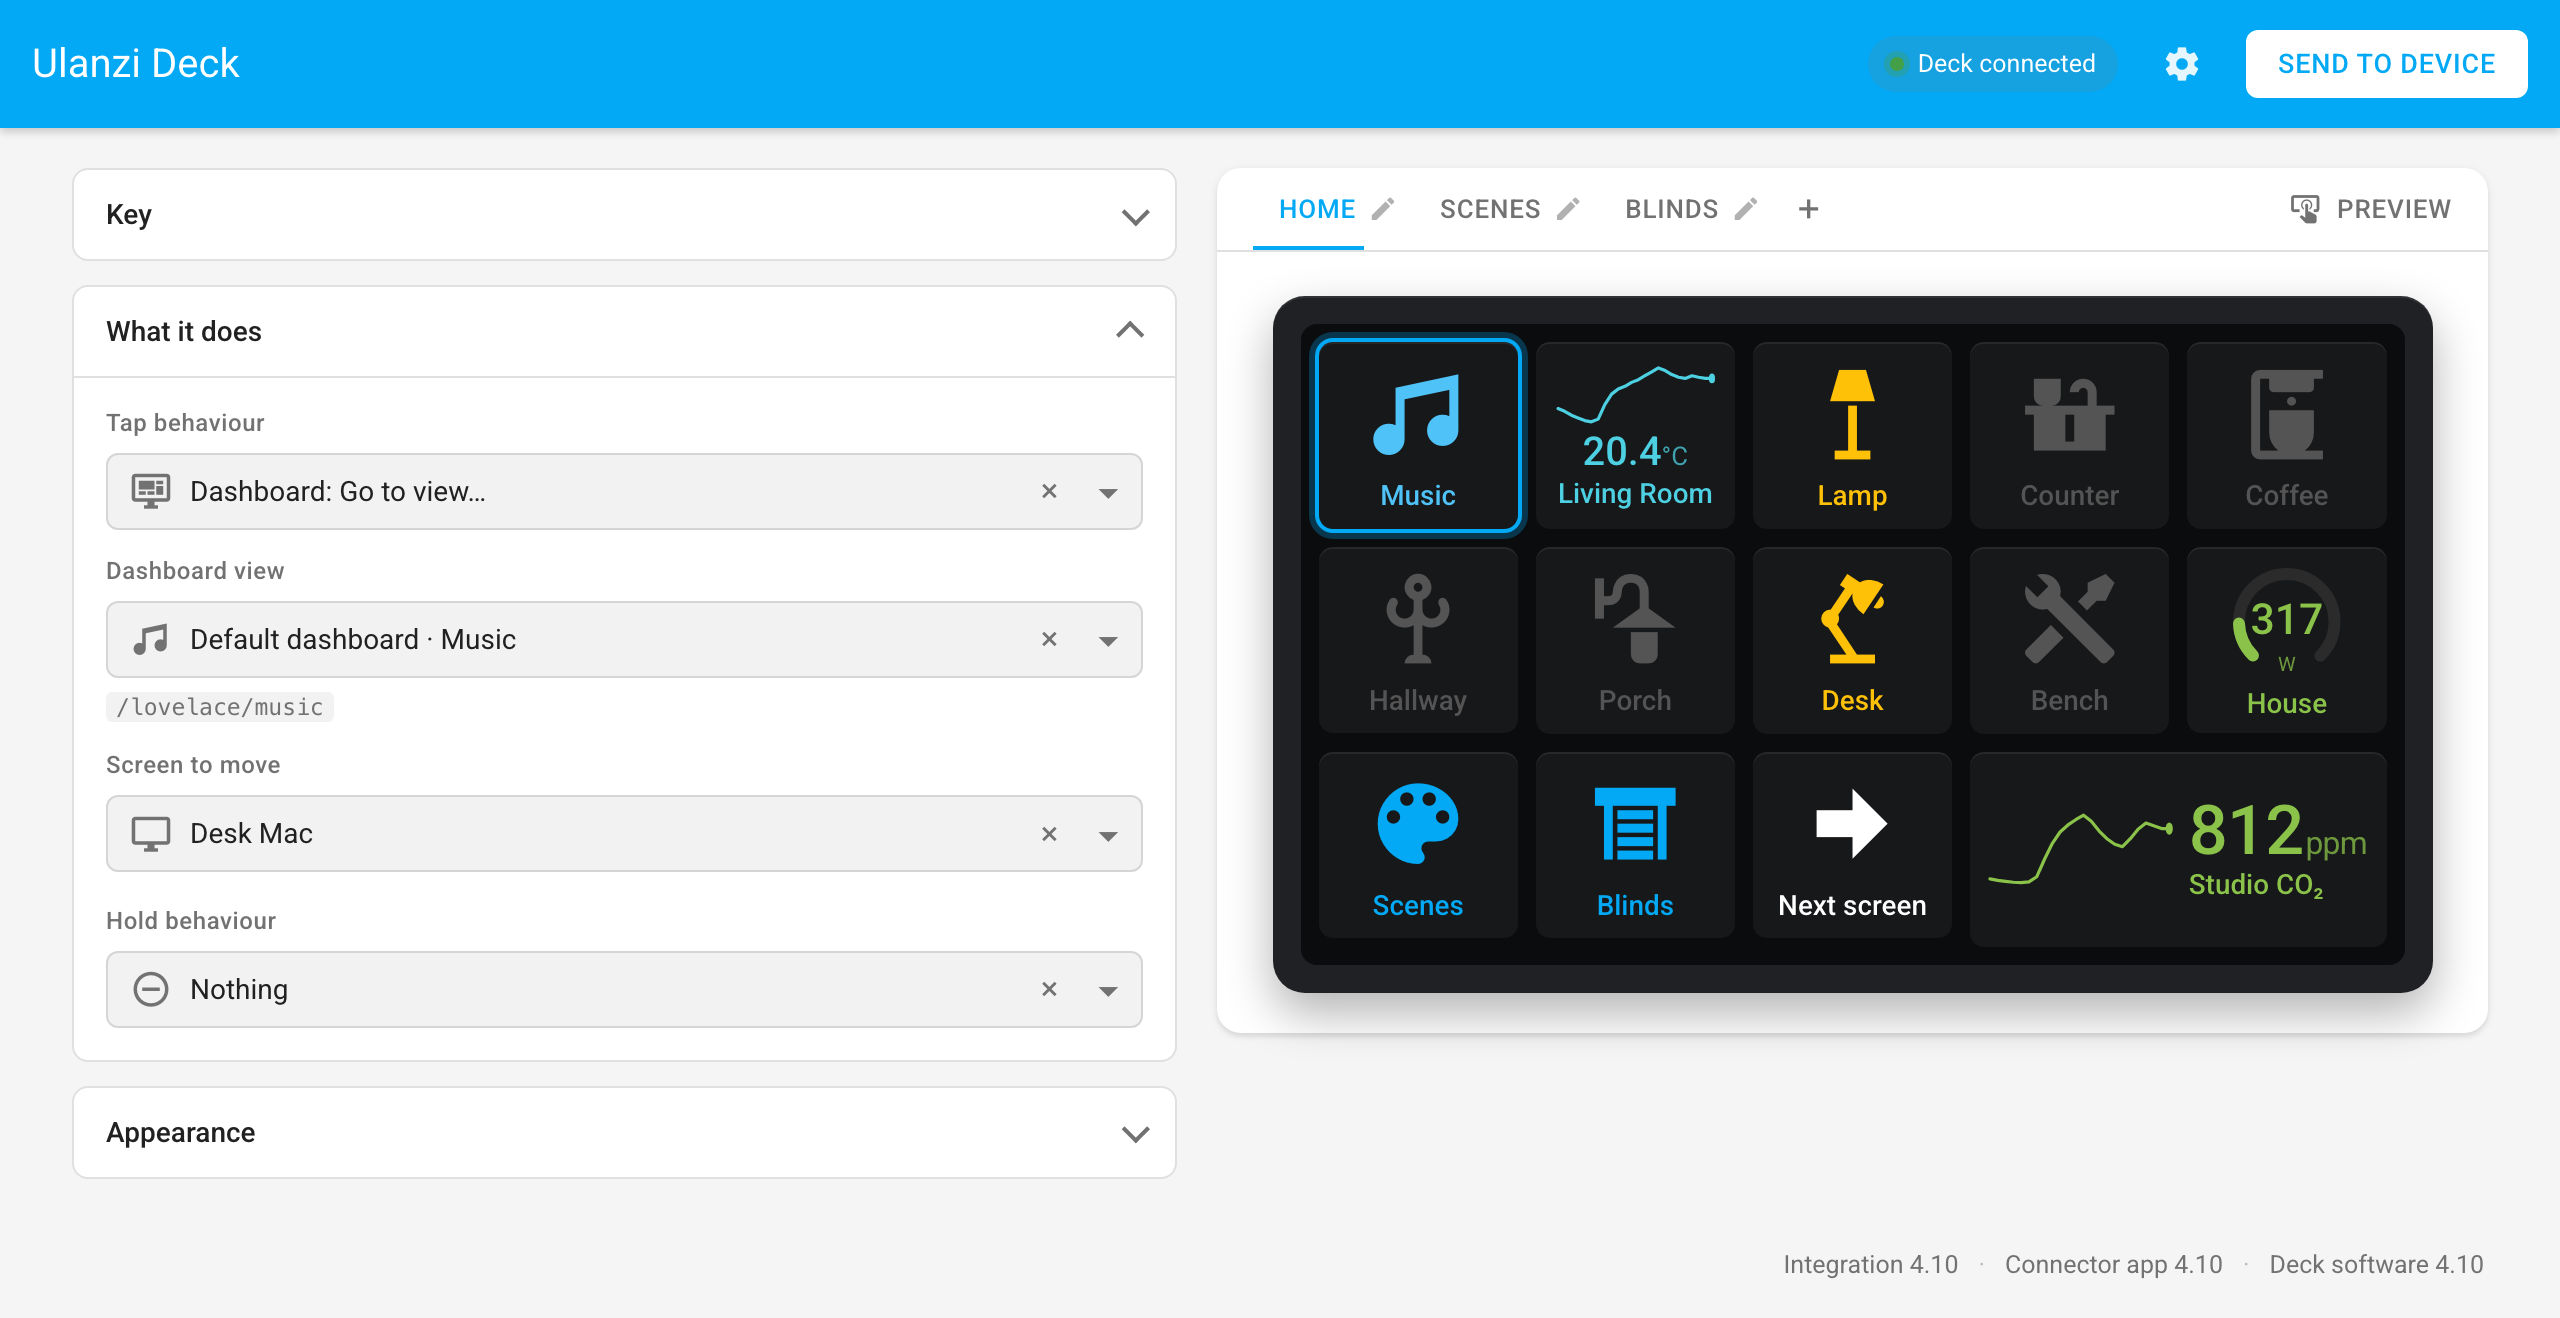
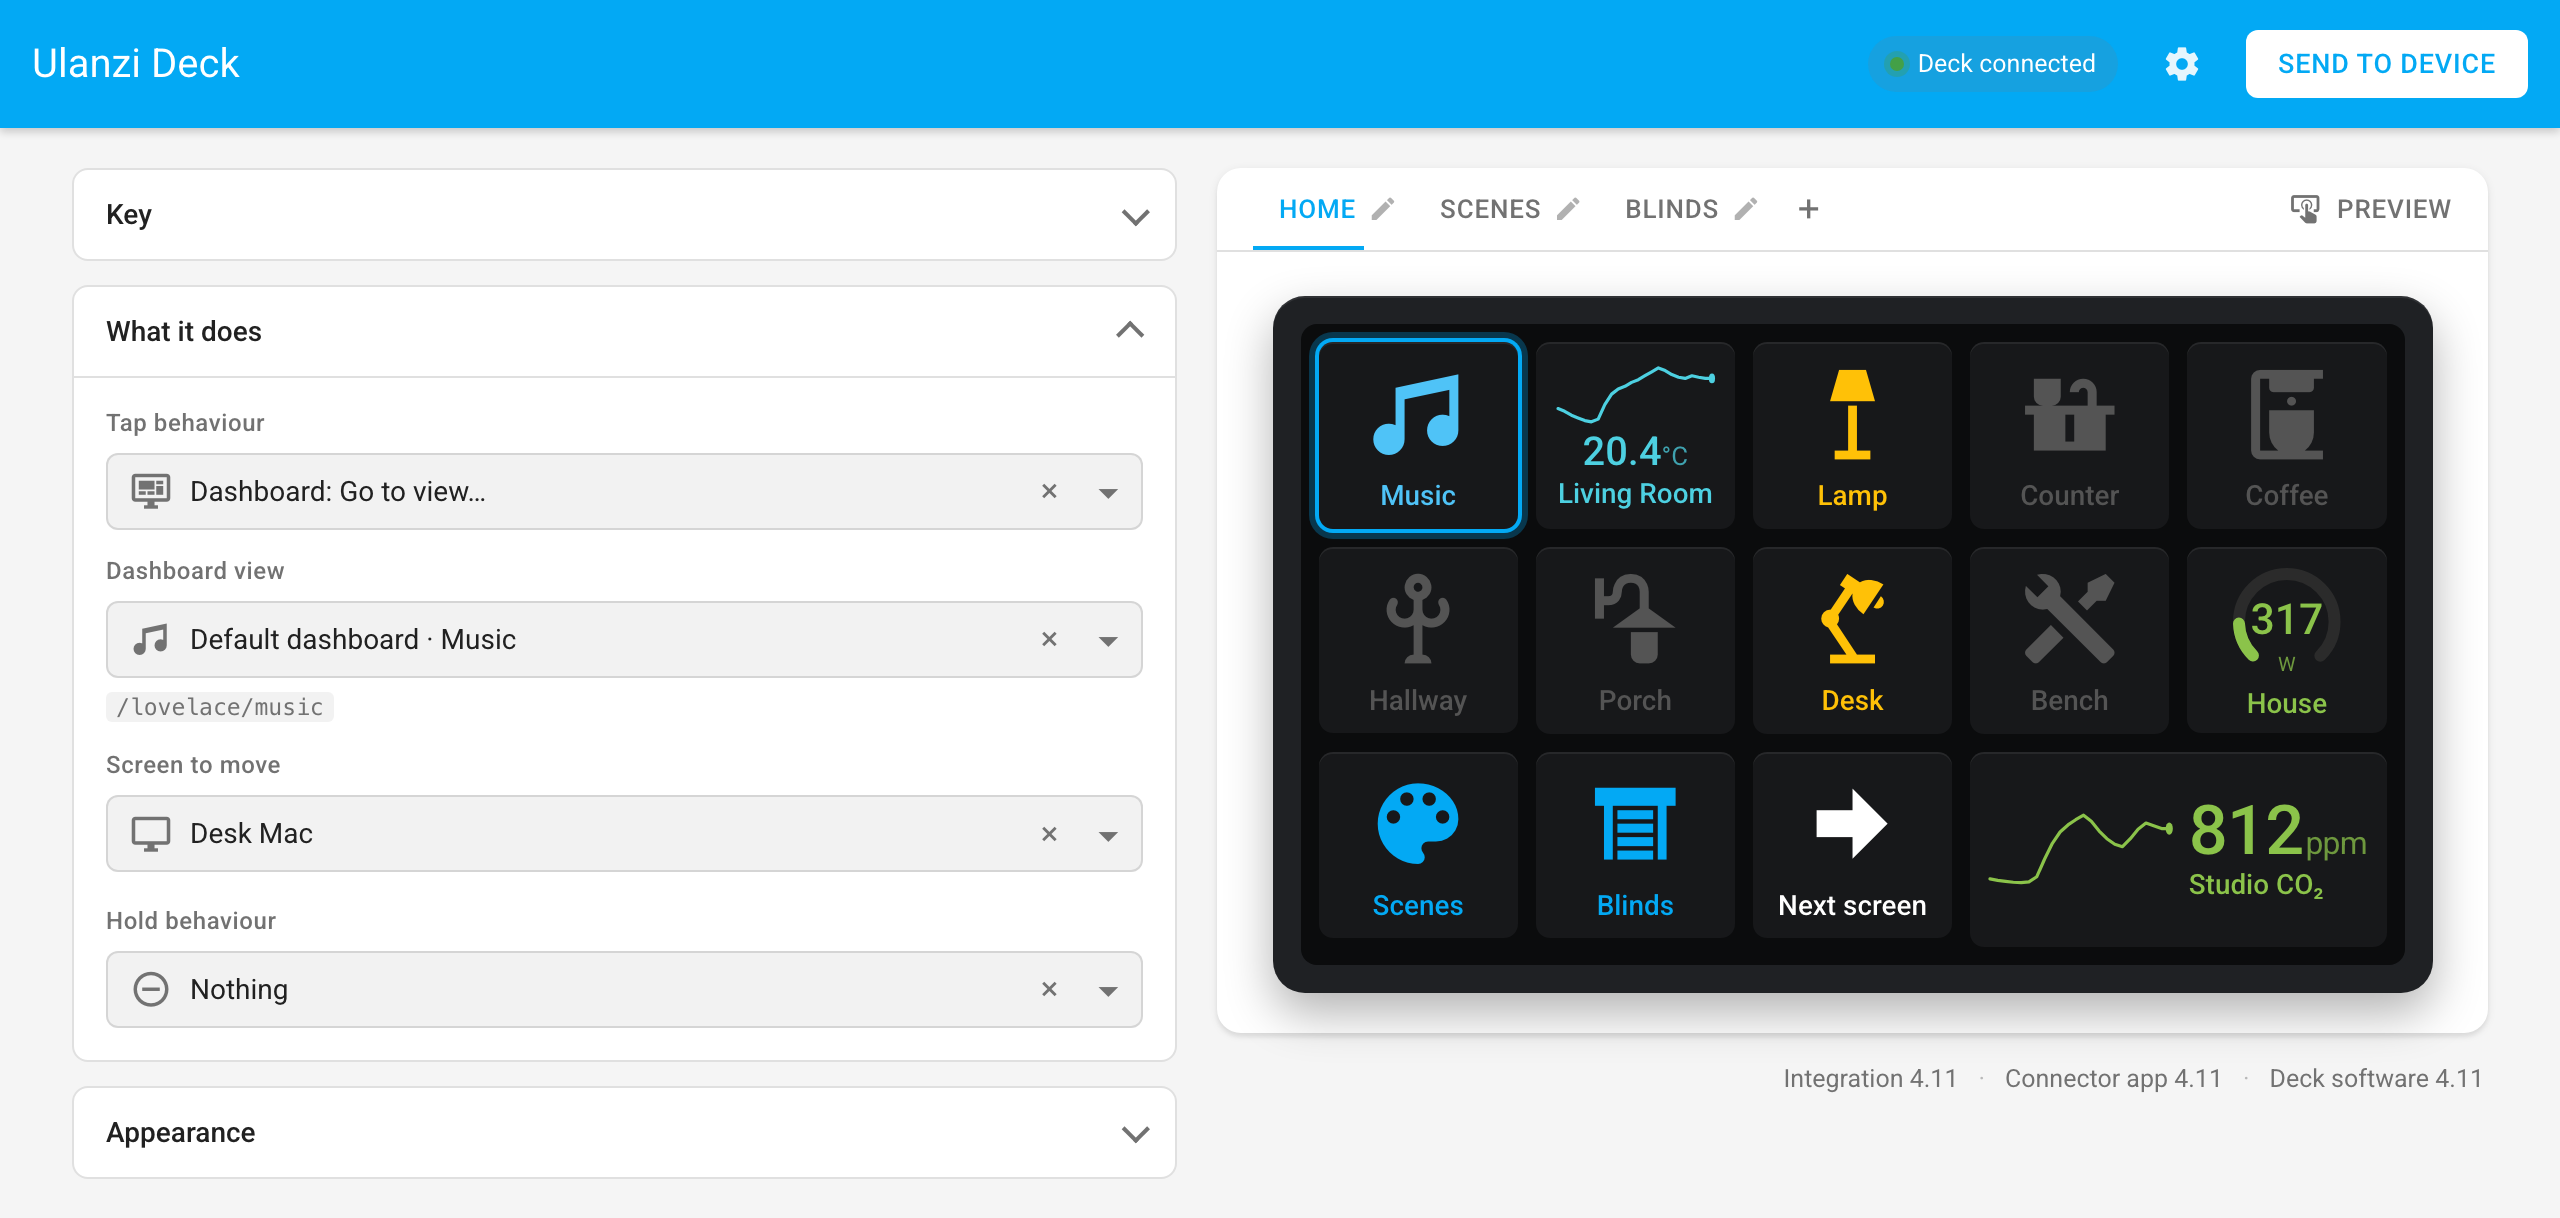
Keep the version line under the deck, not under the page
The three version numbers sat in a row that spanned both columns, so
they landed below whichever side was taller. Open a section on the left
and they slid down the page, away from the deck they describe, leaving a
band of empty grey between. It read as a mistake because it was one.

The deck, the update bar and the version line are now one column rather
than three rows of the page, so the numbers stay tucked under the deck
whatever the left-hand side is doing. Checked with the sections closed
and open — the line does not move — in the single column the panel
falls back to under 960px, and on the first-run screen, where the whole
right-hand column is empty and collapses to nothing.

The update bar moved with them, because it belongs with the numbers it
is about and would otherwise have ended up below a line that refers to
it. It is still the full width of that column.

The guide's figures are redrawn, since the panel in them changed.

diff --git a/custom_components/ulanzi_deck/frontend/panel.js b/custom_components/ulanzi_deck/frontend/panel.js
@@ -74,8 +74,13 @@ h1,h2{margin:0;font-weight:500;text-wrap:balance}
 /* One permanent line saying what every part is running. Grey means nothing to
    do; amber means that part is behind this release, and the bar above says how
    to fix it. Nothing to go looking for, and nothing to remember. */
-.verline{grid-column:1/-1;display:flex;justify-content:flex-end;flex-wrap:wrap;gap:4px 10px;
-  margin:2px 2px 0;font-size:12.5px;color:var(--fg2)}
+/* The deck, anything waiting to be updated, and the three version numbers are one
+   column, not three rows of the page. Spanning both columns put them below
+   whichever side was taller, so opening a section on the left shoved the version
+   line down the page away from the deck it describes. */
+.rightcol{display:flex;flex-direction:column;gap:14px;min-width:0}
+.verline{display:flex;justify-content:flex-end;flex-wrap:wrap;gap:4px 10px;
+  margin:0 2px;font-size:12.5px;color:var(--fg2)}
 .verline .vsep{opacity:.45}
 .verline .vpart{white-space:nowrap}
 .verline .vpart.old{color:var(--amber);font-weight:500}
@@ -84,7 +89,7 @@ h1,h2{margin:0;font-weight:500;text-wrap:balance}
   padding-block:20px 40px;max-width:1240px;margin:0 auto;
   display:grid;grid-template-columns:minmax(0,1fr) minmax(0,1.15fr);gap:20px;align-items:start}
 @media (max-width:960px){.wrap{grid-template-columns:minmax(0,1fr)}}
-.updbar{grid-column:1/-1;display:flex;align-items:center;gap:14px;margin-top:4px;padding:16px 18px;
+.updbar{display:flex;align-items:center;gap:14px;padding:16px 18px;
   border-radius:12px;background:var(--card);box-shadow:0 2px 2px rgba(0,0,0,.06),0 1px 5px rgba(0,0,0,.08);
   border-left:4px solid var(--amber)}
 .updbar .mi.dl{font-size:22px;color:var(--amber);flex:0 0 auto}
@@ -575,6 +580,7 @@ const MARKUP=`
     </div>
   </div>
 
+  <div class="rightcol">
   <div class="card" id="deckCard">
     <div class="tabrow">
       <div class="tabs" role="tablist" id="tabs"></div>
@@ -608,6 +614,7 @@ const MARKUP=`
     <span class="vpart" id="vp-int"></span><span class="vsep">·</span>
     <span class="vpart" id="vp-app"></span><span class="vsep">·</span>
     <span class="vpart" id="vp-deck"></span>
+  </div>
   </div>
 </div>
 

diff --git a/tools/panel-harness/index.html b/tools/panel-harness/index.html
@@ -93,8 +93,8 @@ const q = new URLSearchParams(location.search);
 if (q.has("settings") || q.has("connected") || q.has("navigate") || q.has("gear")) {
   // A settled deck: connected, everything on the same release, nothing to do.
   status = {...status, bridge: "connected", bridge_name: "Desk Mac", pending: null, deck: true,
-            app_version: "4.10", bridge_version: "4.10", deck_firmware: "4.10",
-            deckd_available: "4.10", latest_release: "4.10", on_disk_version: "4.10",
+            app_version: "4.11", bridge_version: "4.11", deck_firmware: "4.11",
+            deckd_available: "4.11", latest_release: "4.11", on_disk_version: "4.11",
             restart_pending: false};
   statusCb && statusCb(status);
   // ?navigate sets the first key to a dashboard jump, for the guide's figure.

diff --git a/parts/02-deck-app/deckd.c b/parts/02-deck-app/deckd.c
@@ -29,7 +29,7 @@ typedef short i16;
 typedef int i32;
 
 #define FW_MAJOR 4
-#define FW_MINOR 10
+#define FW_MINOR 11
 /* The same two numbers as words, so --version and the log can never drift from
    what the status message reports. They used to be typed out by hand, and said
    1.2 for every release after it. */
